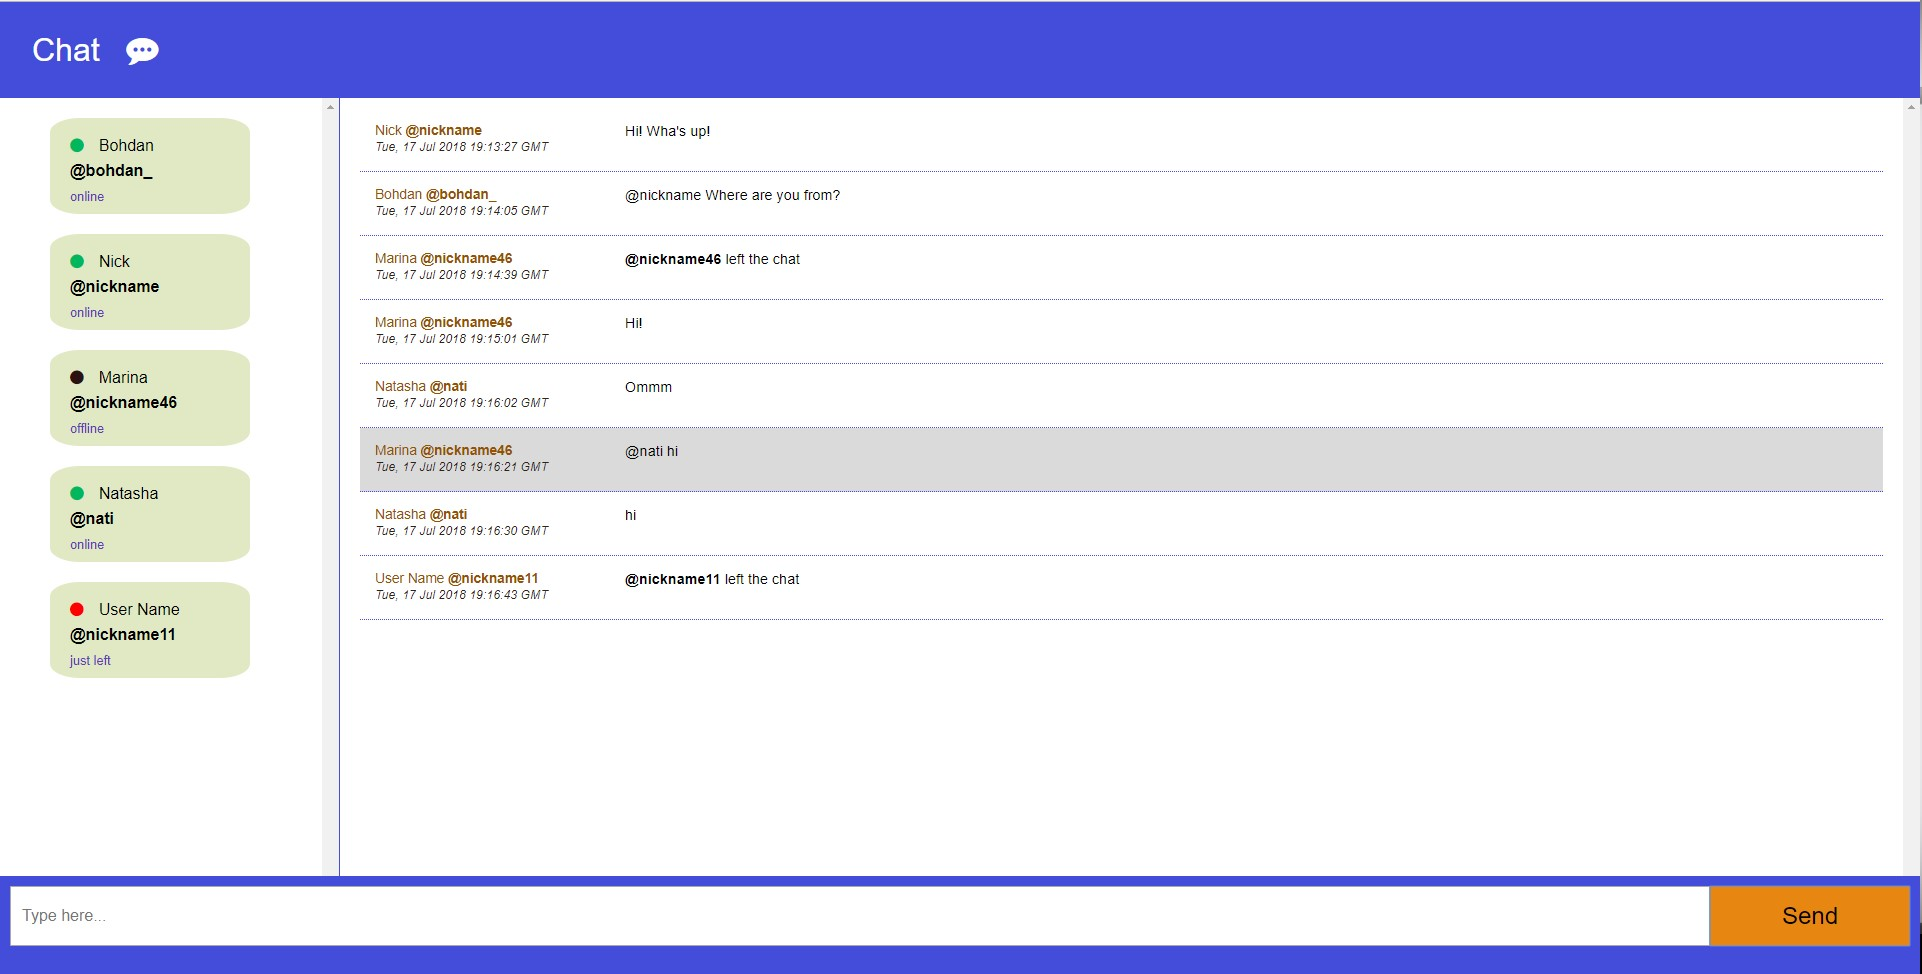
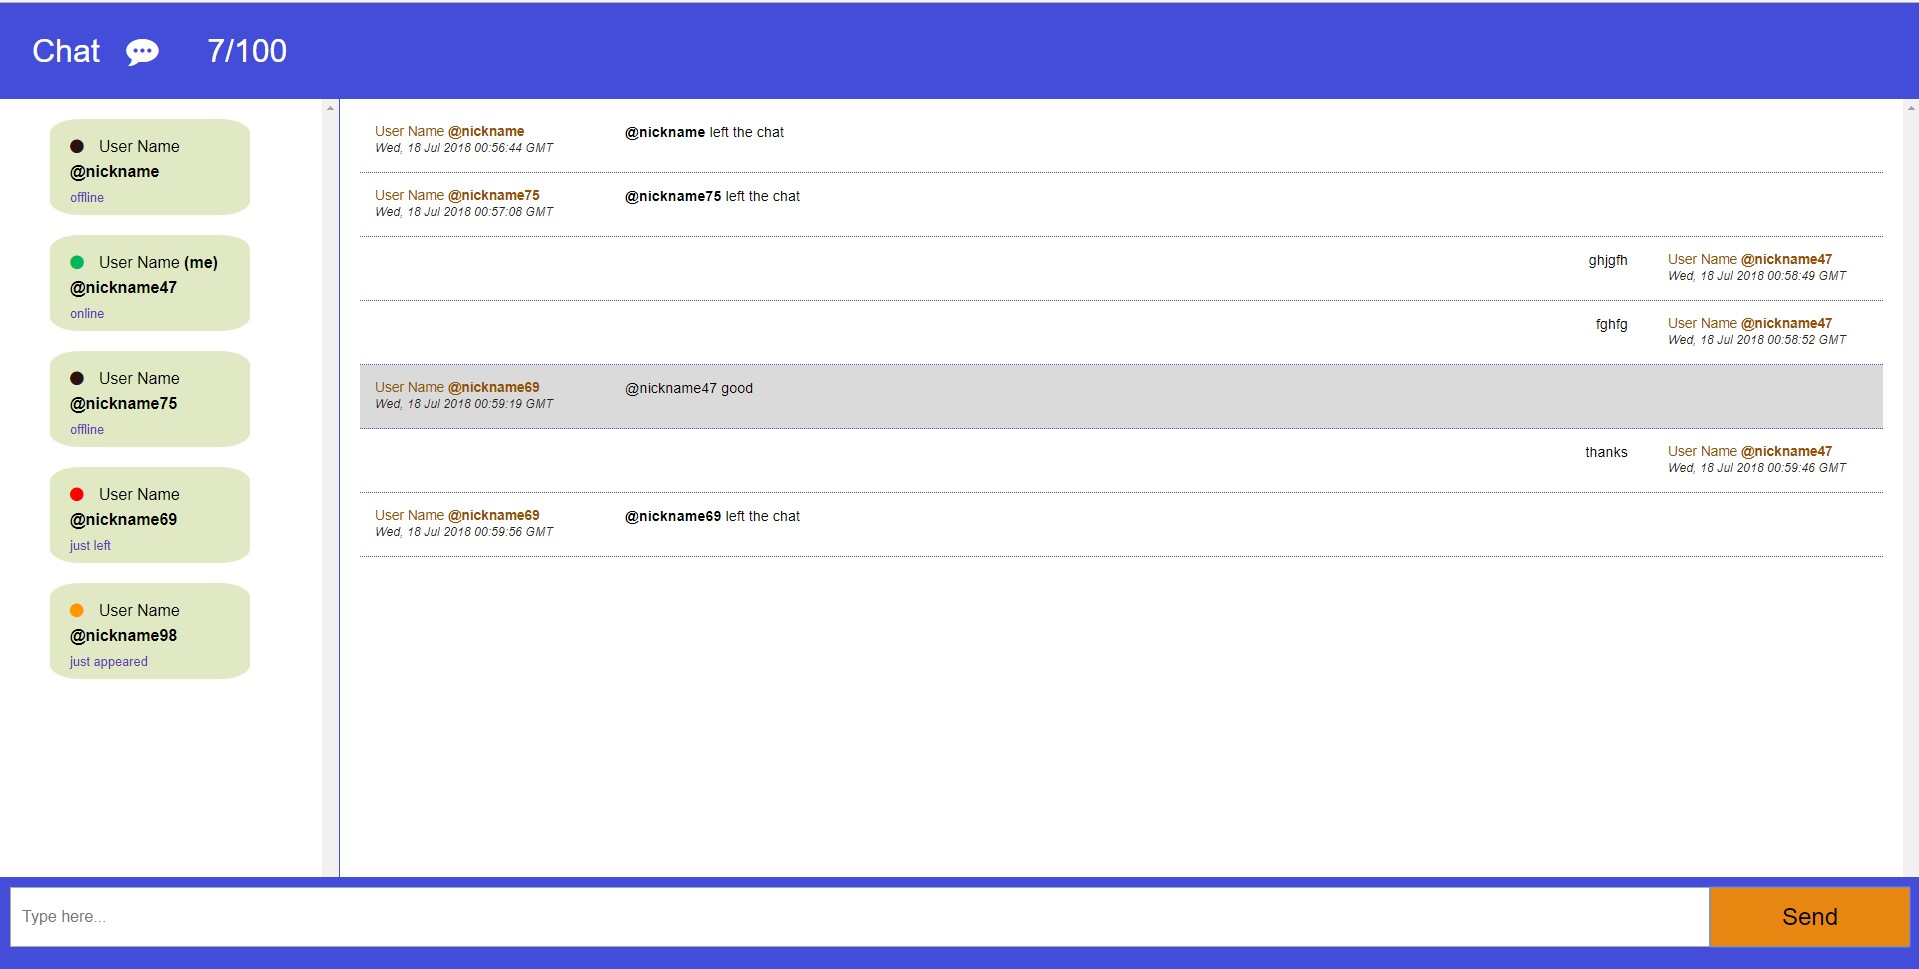
add features

diff --git a/public/script.js b/public/script.js
@@ -5,17 +5,17 @@
   let loginButton = document.getElementById('button-enter');
   let sendMsgButton = document.getElementById('send-msg-btn');
   let messagesDiv = document.getElementById('messages');
+  let counterMsg = document.getElementById('counter-msg');
   let userDiv = document.getElementById('users');
   let loginArea = document.getElementsByClassName('login')[0];
   let chatArea = document.getElementsByClassName('chat')[0];
   let typingDiv = document.getElementById('is-typing-block');
 
-  let userName = 'User Name';
-  let userNickname = 'nickname';
+  let userName = 'User Name', userNickname = 'nickname';
 
   let socket = io.connect();
 
-  //login in the Chat
+  //login in the Chat - click button
   loginButton.onclick = () => {
     userName = nameInput.value || 'User Name';
     userNickname = nicknameInput.value || 'nickname';
@@ -29,40 +29,47 @@
       color: '#ff9800'
     };
 
-    socket.emit('new user', user);
+    //send user  data to the server
+    socket.emit('connect to the chat', user);
   };
 
-  socket.on('user added', (user) => {
-    socket.emit('connect to the chat', user);
+  //upgrate nickname from the server
+  socket.on('connect to the chat', (nickname) => {
+    userNickname = nickname;
+  });
+
+  //add new user to the Chat event
+  socket.on('added new user', (user) => {
+    displayOneUser(user);
   });
 
 
-  //send message to the Chat
+  //send message to the Chat - click button send
   sendMsgButton.onclick = () => {
-    let data = {
+    let msg = {
       name: userName,
       nickname: userNickname,
       message: inputMessage.value,
       time: new Date().toUTCString()
     };
 
-    // send new chat message event to the server
-    socket.emit('chat message', data);
+    // send new chat message to the server and clear input
+    socket.emit('chat message', msg);
     inputMessage.value = '';
   };
 
 
-  //get chat history event
+  //get chat history data - event
   socket.on('chat history', (msgArr) => {
     messagesDiv.innerHTML = '';
     for (let i in msgArr) {
       if (msgArr.hasOwnProperty(i)) {
-        displayOneMsg(msgArr[i], userNickname);
+        displayOneMsg(msgArr[i], userNickname, msgArr.length);
       }
     }
   });
 
-  //get user list event
+  //get user list data - event
   socket.on('user list', (userArr) => {
     userDiv.innerHTML = '';
     for (let i in userArr) {
@@ -72,17 +79,13 @@
     }
   });
 
-
-  //new message event
+  //get new message data - event
   socket.on('chat message', (msg) => {
-    displayOneMsg(msg, userNickname);
+    let length = (Number(counterMsg.innerHTML) + 1) % 101;
+    displayOneMsg(msg, userNickname, length);
   });
 
-  //user stats events
-  socket.on('new user', (user) => {
-    displayOneUser(user);
-  });
-
+  //get some user stats data - events
   socket.on('user online', (user) => {
     changeUserStatus(user, 'online')
   });
@@ -95,12 +98,6 @@
     changeUserStatus(user, 'offline')
   });
 
-
-  //change duplicate nickname
-  socket.on('change nickname', (nickname) => {
-    userNickname = nickname;
-
-  });
 
   // user is typing event
   inputMessage.onkeyup = function () {
@@ -128,28 +125,47 @@
     }
   });
 
-  //display Message
-  function displayOneMsg(msg, nickname) {
+  //display a message function
+  function displayOneMsg(msg, nickname, length) {
     if (msg.message != '') {
       let elem = document.createElement('div');
       if (msg.message.indexOf('@' + nickname + ' ') !== -1) {
         elem.style.backgroundColor = "#dadada";
       }
 
-      elem.innerHTML = `<span>${msg.name} <b>@${msg.nickname}</b><br> <i>${msg.time} </i></span><text>${msg.message}</text>`;
+      if (nickname == msg.nickname) {
+        elem.innerHTML = `<text class="right-message">${msg.message}</text><span>${msg.name} <b>@${msg.nickname}</b><br> <i>${msg.time} </i></span>`;
+        elem.style.gridTemplateColumns = '1fr 200px';
+      }
+      else {
+        elem.innerHTML = `<span>${msg.name} <b>@${msg.nickname}</b><br> <i>${msg.time} </i></span><text>${msg.message}</text>`;
+      }
+
       messagesDiv.appendChild(elem);
+
+      counterMsg.innerHTML = length;
+
+      //auto scroll to bottom
+      messagesDiv.scrollTop = messagesDiv.scrollHeight;
     }
   }
 
-  //display User
+  //display a User function
   function displayOneUser(user) {
     let elem = document.createElement('div');
-    elem.innerHTML = `<li><i class="fa fa-circle" id="icon-${user.nickname}"></i>${user.name} <br><b>@${user.nickname}</b><br><span class="status" id="status-${user.nickname}">${user.status}</span></li>`;
+
+    if (userNickname == user.nickname) {
+      elem.innerHTML = `<li><i class="fa fa-circle" id="icon-${user.nickname}"></i>${user.name}<b> (me)</b> <br><b>@${user.nickname}</b><br><span class="status" id="status-${user.nickname}">${user.status}</span></li>`;
+    }
+    else {
+      elem.innerHTML = `<li><i class="fa fa-circle" id="icon-${user.nickname}"></i>${user.name} <br><b>@${user.nickname}</b><br><span class="status" id="status-${user.nickname}">${user.status}</span></li>`;
+    }
+
     userDiv.appendChild(elem);
     document.getElementById(`icon-${user.nickname}`).style.color = user.color;
   }
 
-  //change status
+  //change status a user function
   function changeUserStatus(user, newstatus) {
 
     let statusText = document.getElementById(`status-${user.nickname}`);

diff --git a/index.js b/index.js
@@ -27,11 +27,17 @@ io.on('connection', function (socket) {
 
   //a user connected to the Chat
   socket.on('connect to the chat', (user) => {
-    connectedUser = user;
+    connectedUser = addNewUser(user);
+    socket.emit('connect to the chat', connectedUser.nickname);
+    io.emit('added new user', user);
+    //wait 60 second and set online
+    setTimeout(() => { io.emit('user online', user); changeStatusUser('online', user.nickname) }, 60000);
+
     socket.emit('chat history', messages);
     socket.emit('user list', users);
     console.log(`User ${connectedUser.nickname} connected`);
   });
+
 
   // a user is typing event
   socket.on('user is typing', (nickname) => {
@@ -44,14 +50,7 @@ io.on('connection', function (socket) {
     io.emit('chat message', msg);
   });
 
-  //add new user event
-  socket.on('new user', (user) => {
-    addNewUser(socket, user, connectedUser);
-    io.emit('user added', user);
-    io.emit('new user', user);
-     //wait 60 second and set online
-    setTimeout(() => { io.emit('user online', user); changeStatusUser('online', user.nickname) }, 60000);
-  });
+
 
   // when a user disconnects
   socket.on('disconnect', () => {
@@ -62,6 +61,8 @@ io.on('connection', function (socket) {
       time: new Date().toUTCString()
     };
 
+    console.log(`User ${connectedUser.nickname} disconnected`);
+
     if (connectedUser.nickname != null) {
       saveNewMessage(userLeftMsg, messages);
       io.emit('chat message', userLeftMsg);
@@ -71,10 +72,9 @@ io.on('connection', function (socket) {
     }
   });
 
-});
 
 
-//save new message in the history function
+  //save new message in the history function
 function saveNewMessage(msg, messages) {
   if (msg.message !== '') {
     messages.push(msg);
@@ -86,15 +86,15 @@ function saveNewMessage(msg, messages) {
 }
 
 // add new user function
-function addNewUser(socket, user, connectedUser) {
+function addNewUser(user) {
   users.forEach(item => {
     if (item.nickname === user.nickname) {
       user.nickname += Math.floor(Math.random() * 100);
-      socket.emit('change nickname', user.nickname);
       connectedUser = user;
     }
   });
   users.push(user);
+  return user;
 }
 
 //change user status function
@@ -112,6 +112,11 @@ function changeStatusUser(status, nickname) {
     }
   });
 }
+
+});
+
+
+
 
 // conect to server
 server.listen(port, () => {

diff --git a/public/index.html b/public/index.html
@@ -14,7 +14,9 @@
 
     <!-- Chat -->
     <div class="chat page">
-      <div class="header-chat">Chat&nbsp; &nbsp;<i class="fa fa-commenting"></i></div>
+      <div class="header-chat">Chat&nbsp; &nbsp;<i class="fa fa-commenting"></i>
+      <div style="display:inline; margin-left: 40px;"><span id="counter-msg">0</span>/100</div>
+      </div>
       <div class="chatArea">
         <div id="users"></div>
         <div id="messages"></div>

diff --git a/public/css/style.css b/public/css/style.css
@@ -188,10 +188,12 @@ div {
   margin: 0;
   overflow-y: scroll;
   padding: 10px 20px 10px 20px;
+  min-height: 100%;
 }
 
 #users{
   border-right: 1px solid #434dd9;
+  min-height: 100%;
   overflow-y: scroll;
 }
 
@@ -233,6 +235,11 @@ div {
   border: 10px solid #434dd9;
   background: #434dd9;
   outline: none;
+}
+
+.right-message{
+  text-align: right;
+  padding-right: 40px;
 }
 
 
